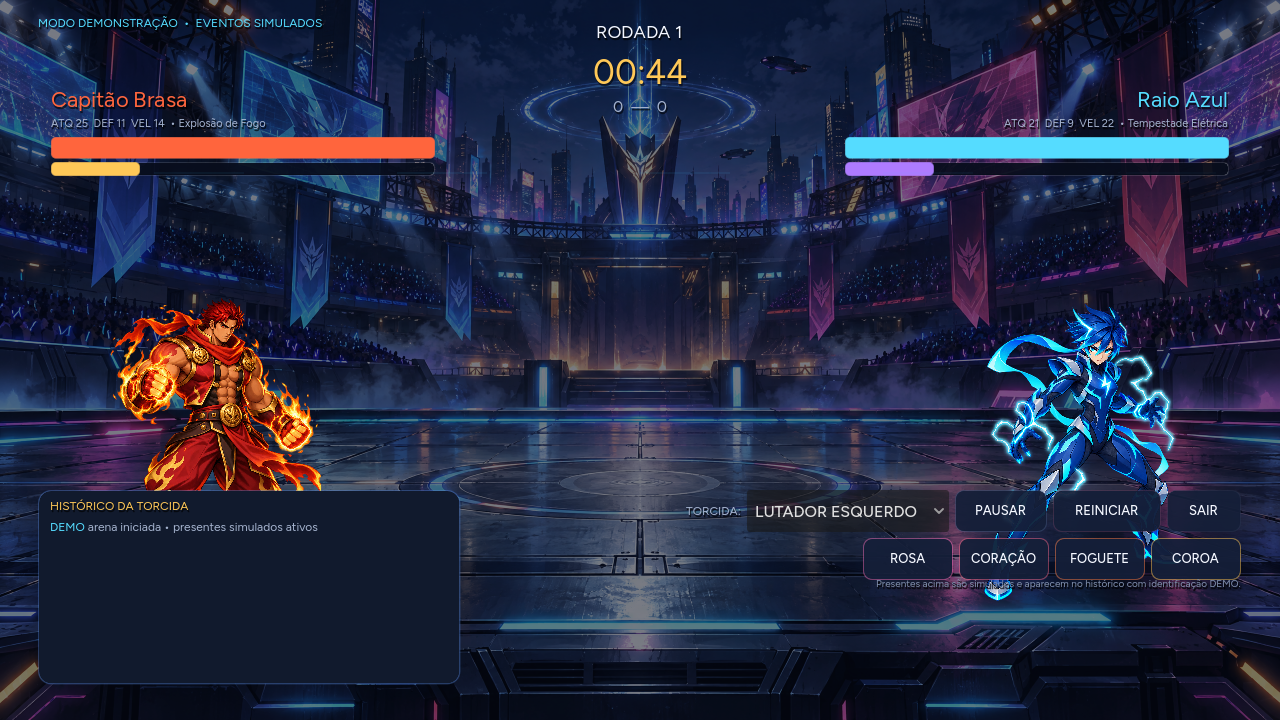
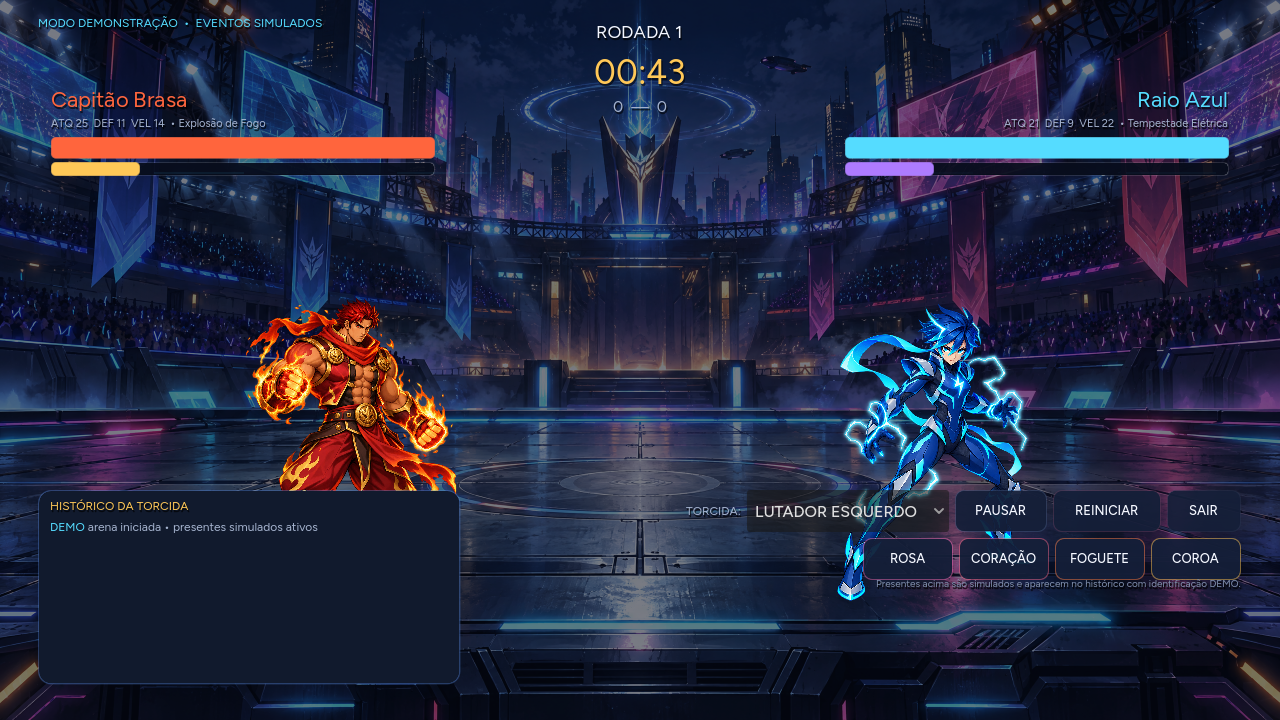
Aprimora movimento sincronizado da arena TikTok LIVE

diff --git a/site/index.html b/site/index.html
@@ -52,10 +52,10 @@
     <button id="loading-retry" type="button" hidden>Recarregar arena</button>
     <noscript>JavaScript é necessário para jogar.</noscript>
   </section>
-  <script>(function(){var R={"index.wasm":"/manus-storage/game/sha256/fc74679e3b97f76878947fcd4fbe1268cbfa6188182a2e33bbc3f5dc9bfa57d0.wasm","index.pck":"/manus-storage/game/sha256/8f68b9e328c4df6d8d7929d5ec27652d1c5d76766a64c8257b70125f7edf5351.pck"};var f=window.fetch.bind(window);window.fetch=function(i,o){var u=typeof i==="string"?i:(i&&i.url)||"";var b=u.split("?")[0].split("/").pop();return R[b]?f(R[b],o):f(i,o)};})();</script>
+  <script>(function(){var R={"index.wasm":"/manus-storage/game/sha256/fc74679e3b97f76878947fcd4fbe1268cbfa6188182a2e33bbc3f5dc9bfa57d0.wasm","index.pck":"/manus-storage/game/sha256/3f7f888b898c92586264fcb9014bdf2ae9f1863f883d790ecc733c5334386f32.pck"};var f=window.fetch.bind(window);window.fetch=function(i,o){var u=typeof i==="string"?i:(i&&i.url)||"";var b=u.split("?")[0].split("/").pop();return R[b]?f(R[b],o):f(i,o)};})();</script>
 <script>
     (() => {
-      const config = {"args":[],"canvasResizePolicy":2,"emscriptenPoolSize":8,"ensureCrossOriginIsolationHeaders":true,"executable":"index","experimentalVK":false,"fileSizes":{"index.pck":24793232,"index.wasm":39514754},"focusCanvas":true,"gdextensionLibs":[],"godotPoolSize":4};
+      const config = {"args":[],"canvasResizePolicy":2,"emscriptenPoolSize":8,"ensureCrossOriginIsolationHeaders":true,"executable":"index","experimentalVK":false,"fileSizes":{"index.pck":24794384,"index.wasm":39514754},"focusCanvas":true,"gdextensionLibs":[],"godotPoolSize":4};
       const threads = false;
       const canvas = document.getElementById('canvas');
       const loading = document.getElementById('loading');
